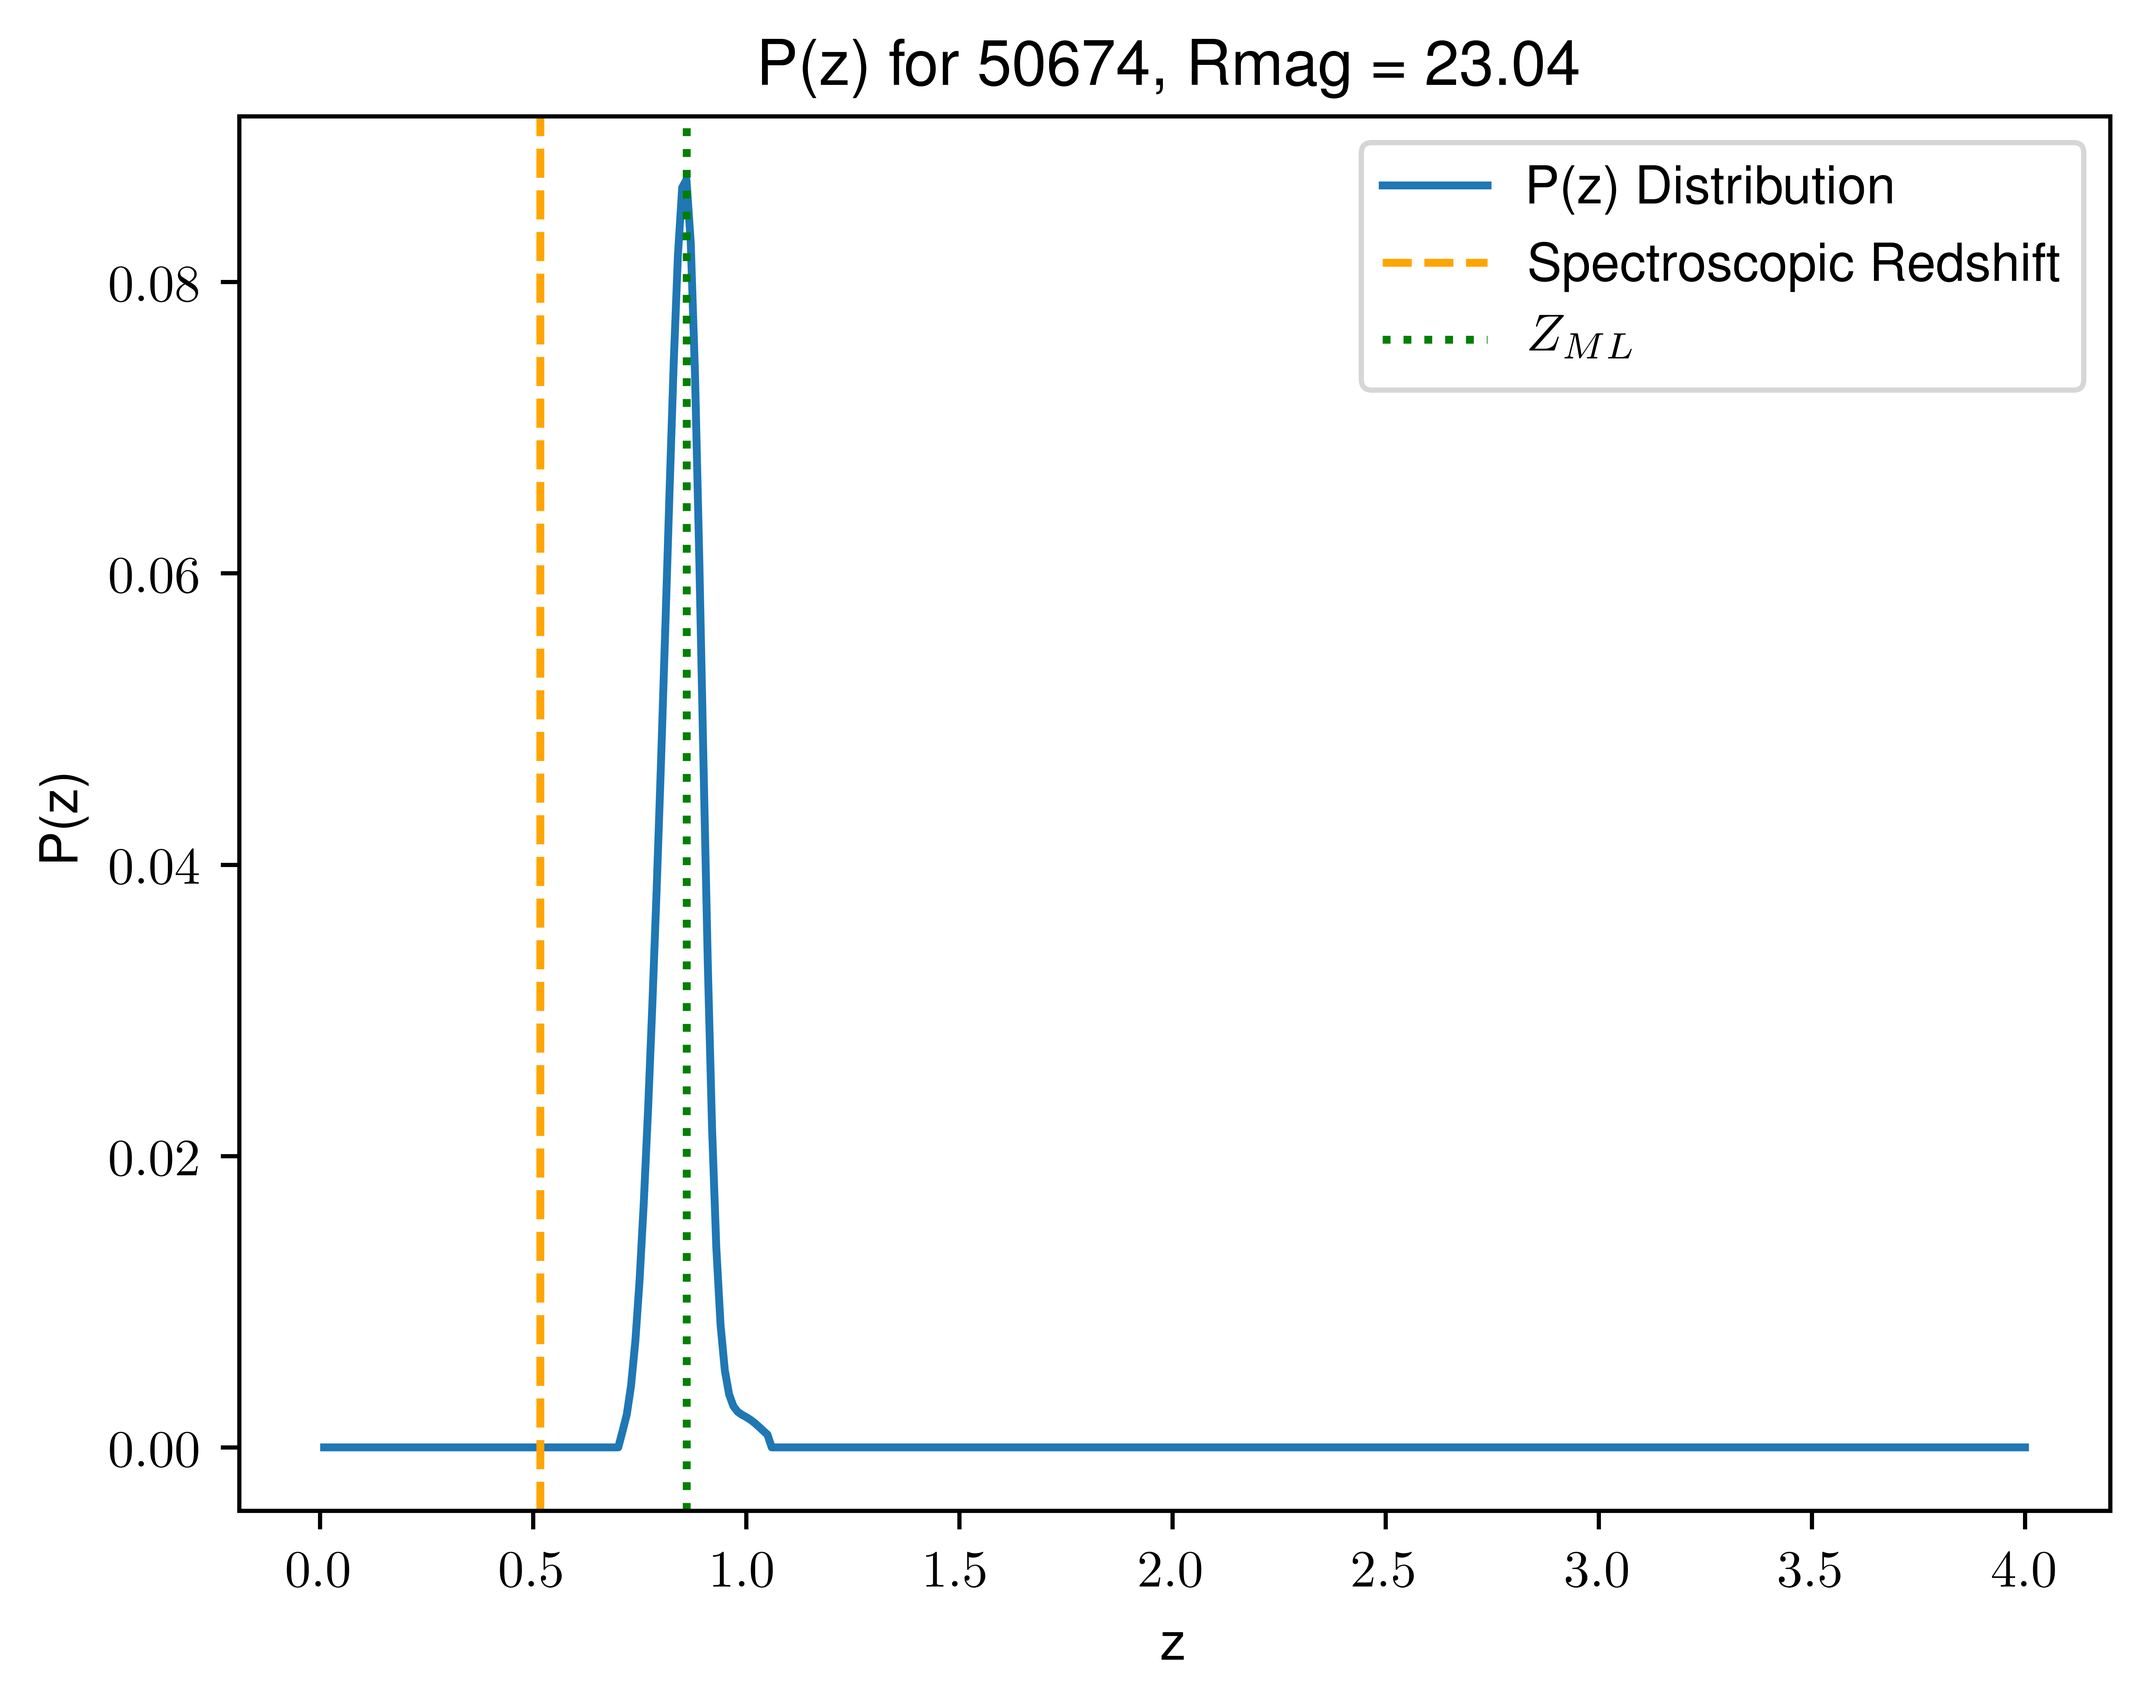
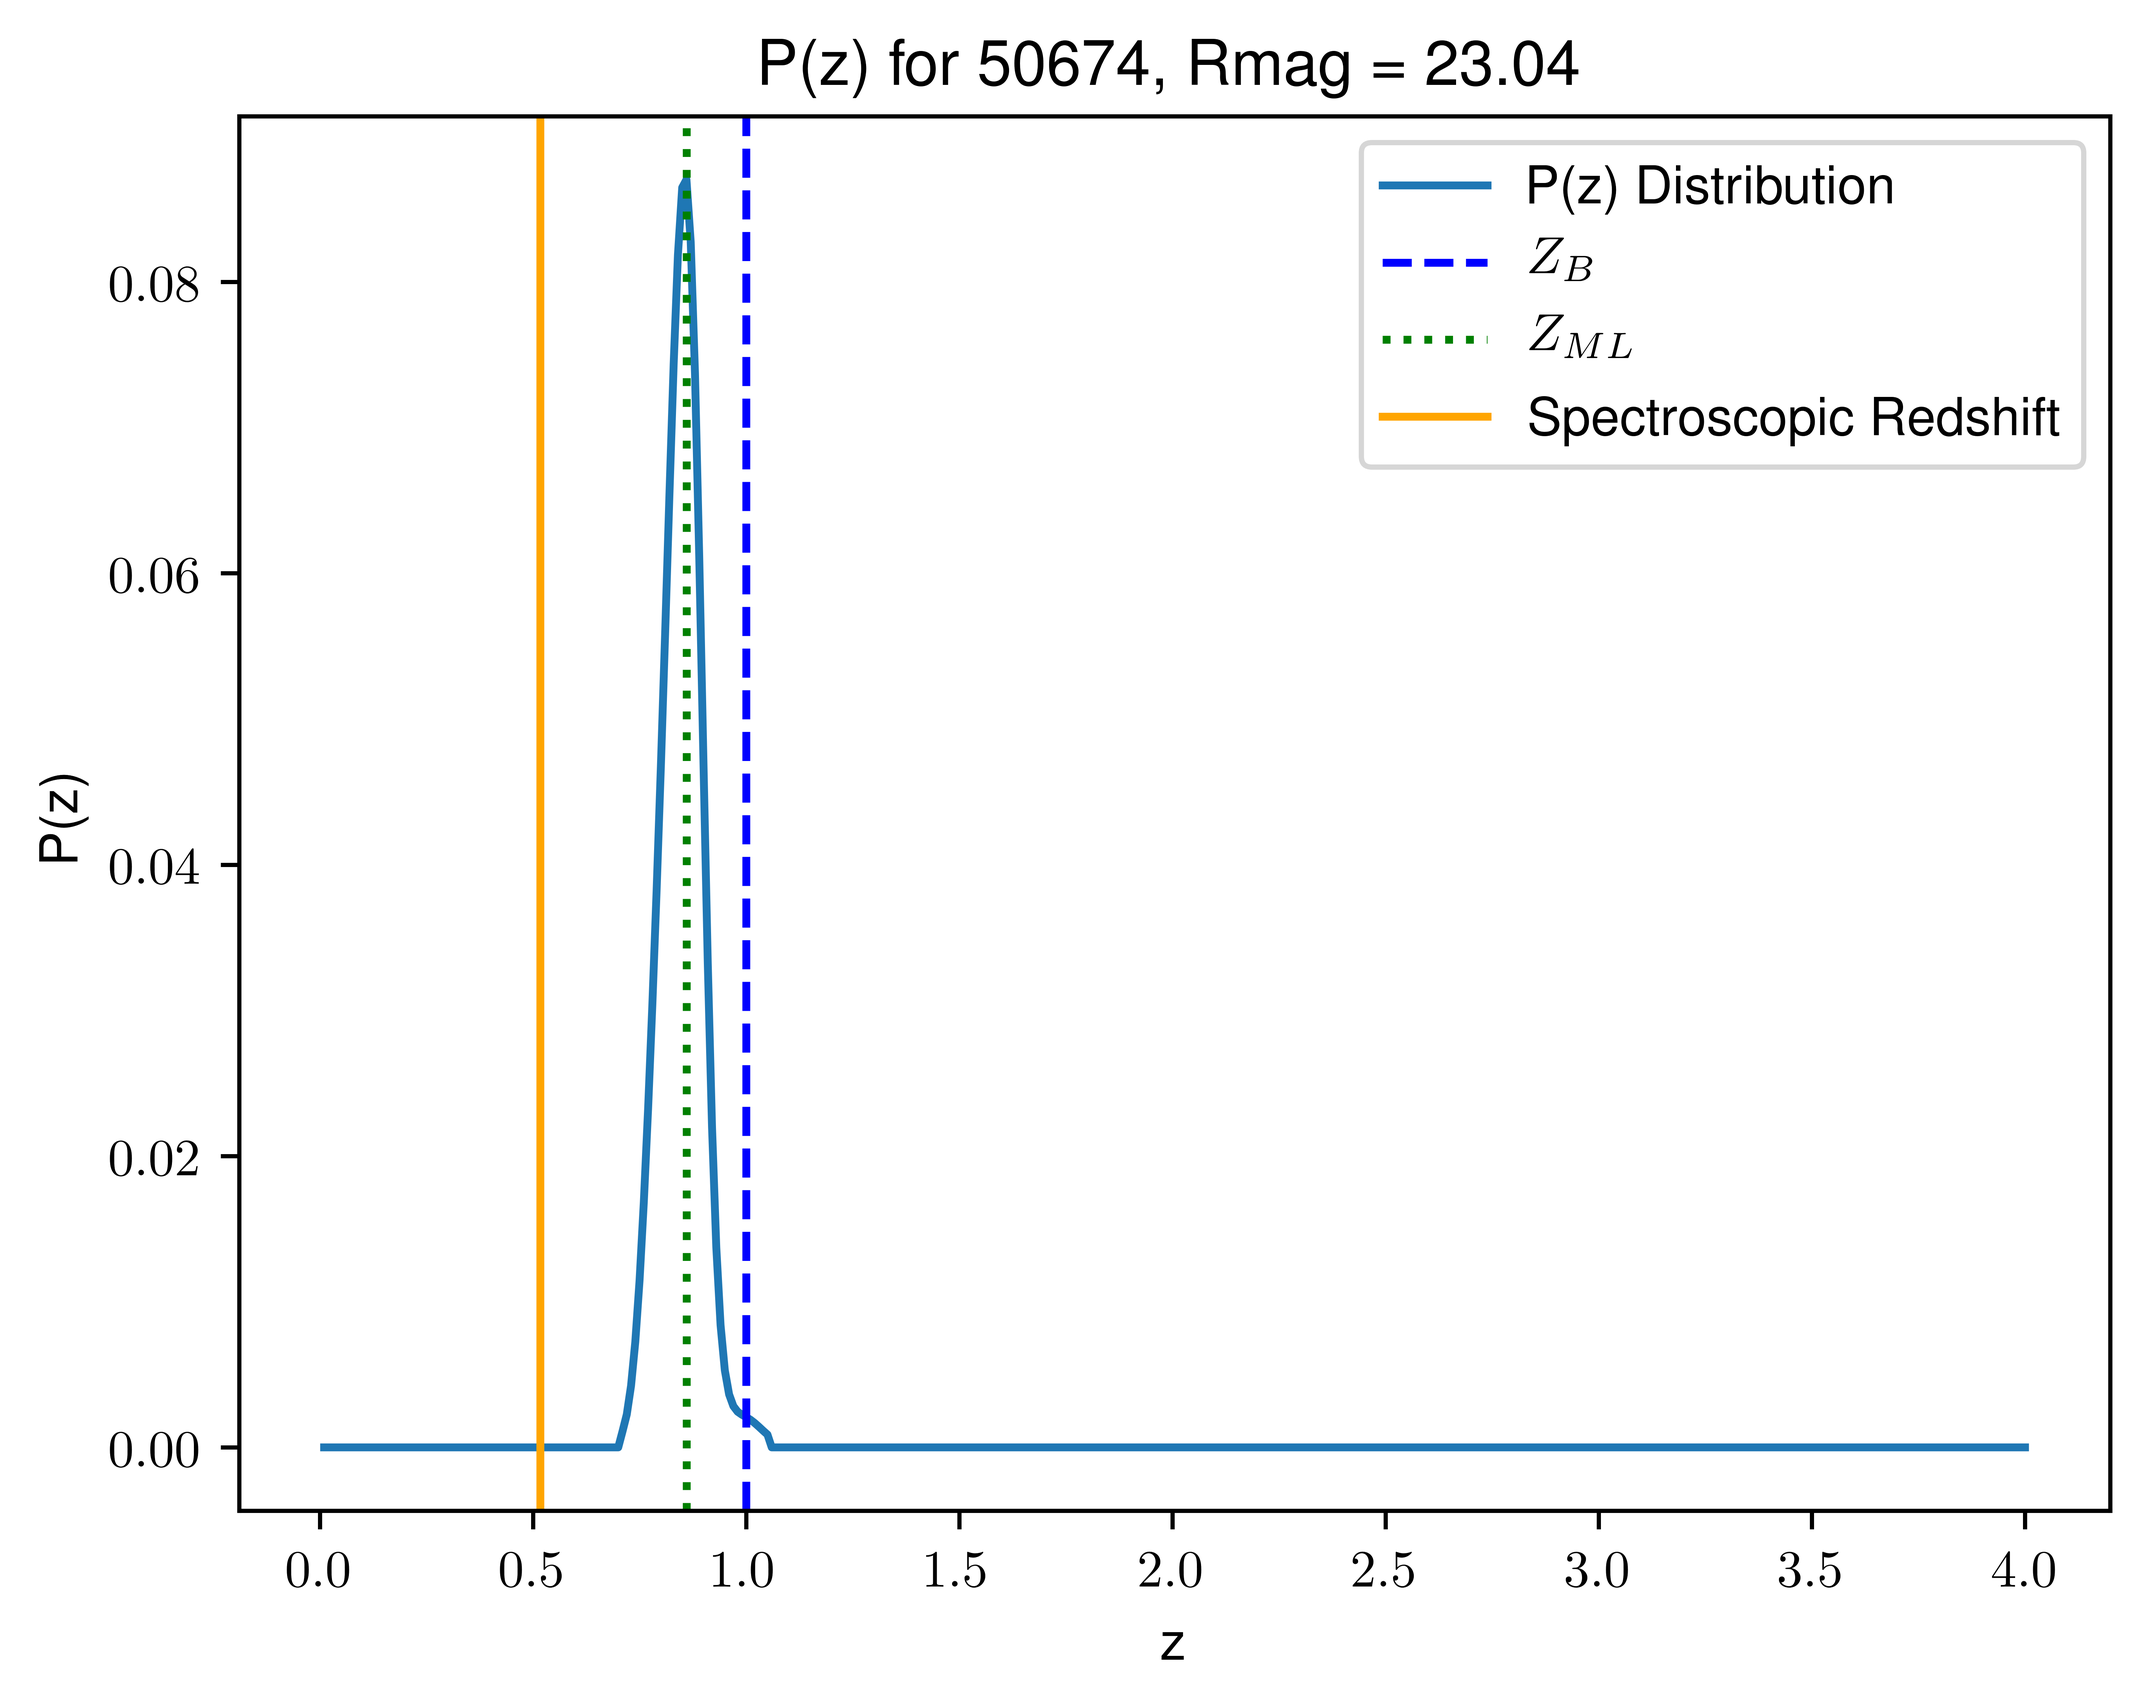
p(z) add zBest

Changed region(s): [[0.6249, 0.218, 0.9686, 0.2803], [0.7186, 0.1246, 0.9686, 0.1869]]

diff --git a/scripts/QQplot.py b/scripts/QQplot.py
@@ -36,7 +36,7 @@ save = True
 if save:
     if cat1:
         figpwd = '/home/ebiermann/Cosmo-Research/figures/mag_matchCat/all/QQ/'
-        tag = 'match4' # tag for figure names
+        tag = 'zoom_match4' # tag for figure names
     if cat2:
         figpwd = '/home/ebiermann/Cosmo-Research/figures/mag_matchCat/match3_rem/QQ/'
         tag = 'match3rem'
@@ -89,16 +89,18 @@ for i in range(0,len(data)):
     if np.isin(i,plotNums):
         SeqNr = data[i][2] # SeqNr_1, 3
         Rmag = data[i][650] # MAG_AUTO-SUBARU-COADD-1-W-C-RC, 651
+        z_b = data[i][1] # BPZ_Z_B, 2
         Z_ml = bpzData[SeqNr-1][6] # BPZ_Z_ML, 7
         plt.figure()
         plt.title('P(z) for {}, Rmag = {:.2f}'.format(SeqNr,Rmag))
         #plt.title('P(z) Distribution, Rmag = {:.2f}'.format(Rmag))
         plt.xlabel('z')
         plt.ylabel('P(z)')
-        #plt.xlim(0.0,1.5)
+        plt.xlim(0.0,1.5)
         plt.plot(z,pdz,label=r'P(z) Distribution')
-        plt.axvline(x=specZ,color='orange',linestyle='--',label=r'Spectroscopic Redshift')
+        plt.axvline(x=z_b,color='blue',linestyle='--',label=r'$Z_{B}$')
         plt.axvline(x=Z_ml,color='green',linestyle=':',label=r'$Z_{ML}$')
+        plt.axvline(x=specZ,color='orange',label=r'Spectroscopic Redshift') 
         plt.legend()
         if save:
             plt.savefig(figpwd+'pzPlot_{}_{}.png'.format(SeqNr,tag),\
